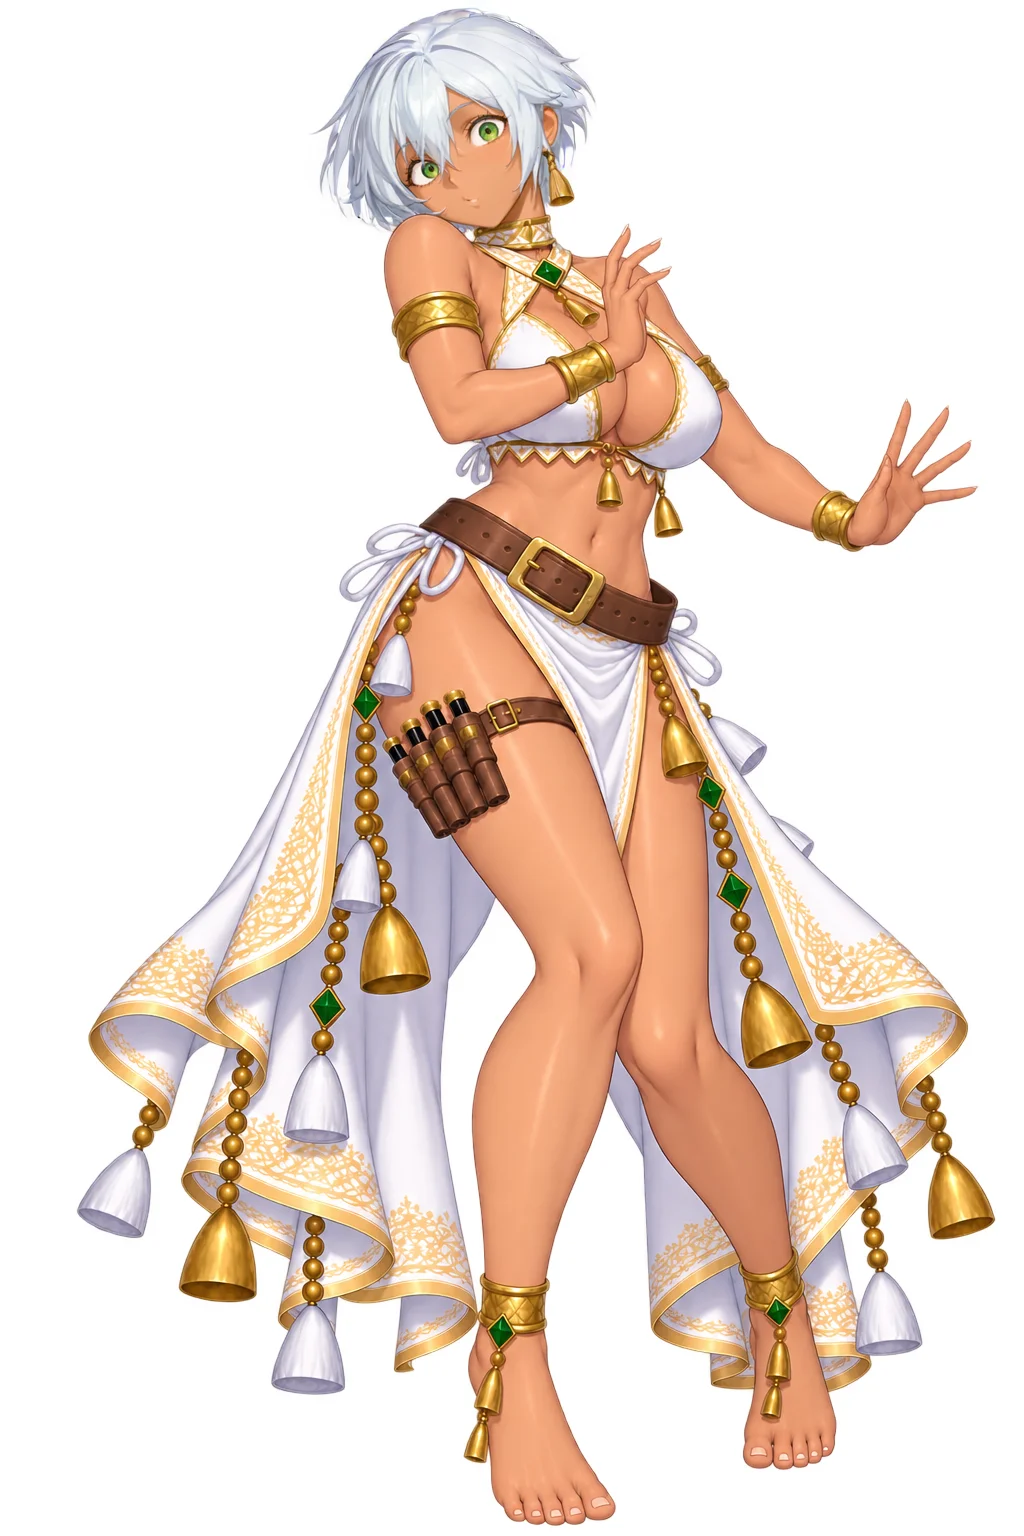
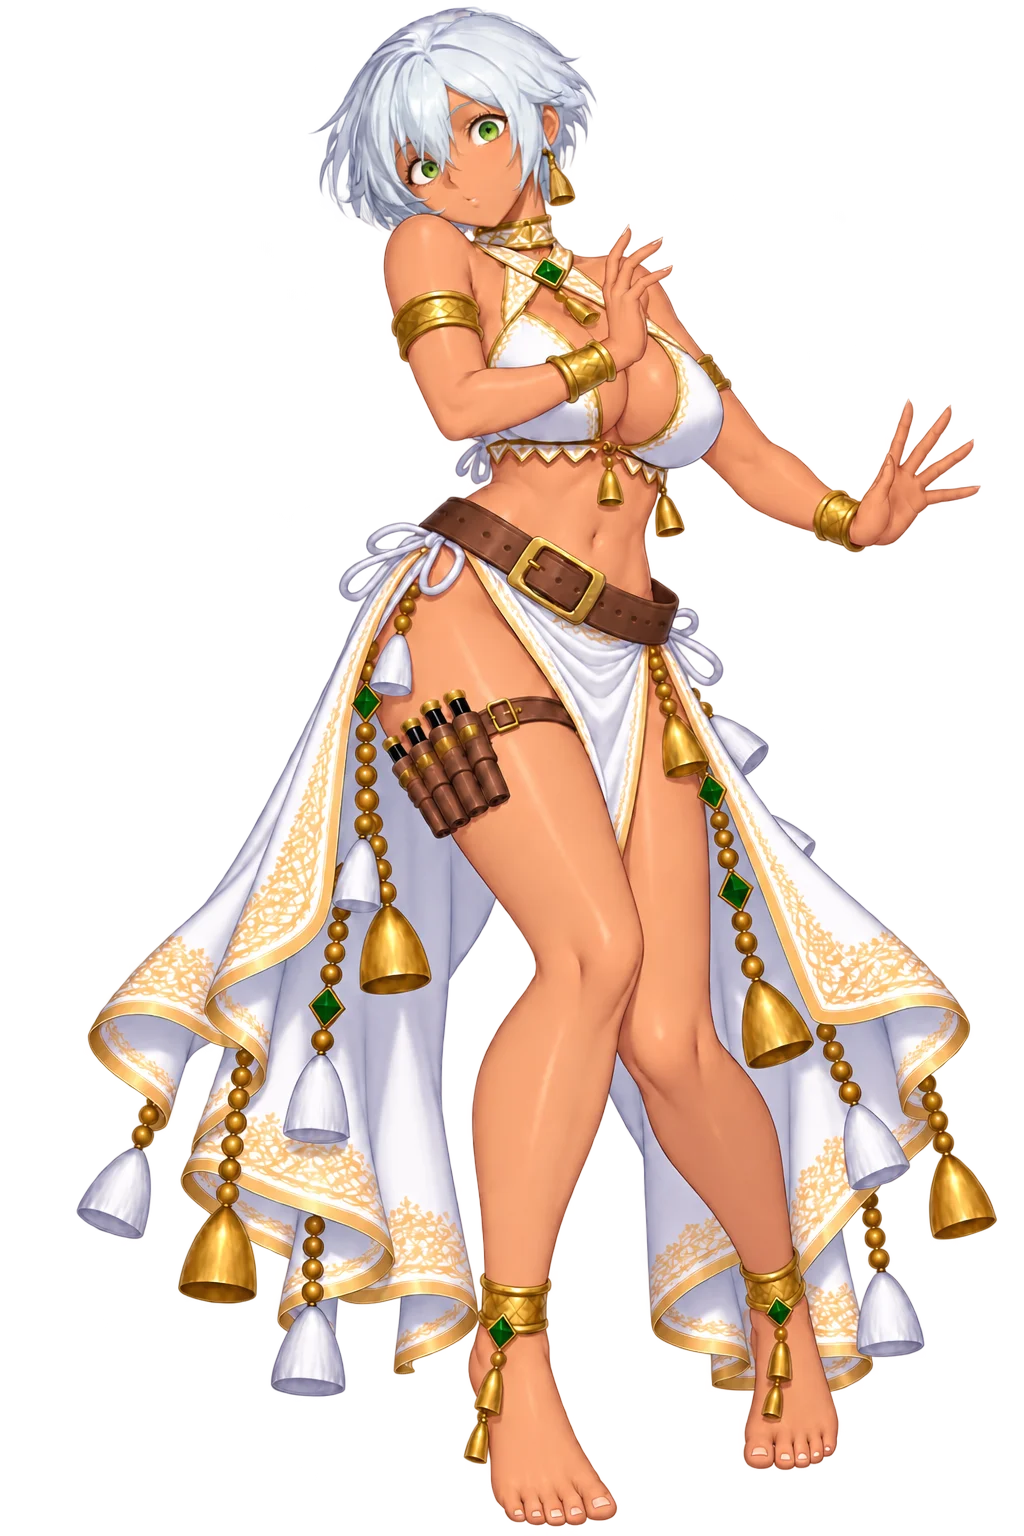
art: Sorana_SI_cringe 換新圖（?v=2 ＋重量取景）ver -1106
Ray 交件是 PNG、舊 webp 已刪 —— 轉 webp（q85／alpha 100）、原 PNG 進
`resources/_originals/SI/`（§5）。
· 同名覆蓋所以掛 `?v=2`：不掛的話瀏覽器照樣拿舊的那一份（-650 的老坑）。
· 取景值**重量過**：top 0→6／bot 1535→1526／fx 0.500→0.454（沿用舊值會歪一截）。
· `script/speakers.js` 與 `flight/index.html` 的 PORTRAIT_EXPR 兩邊都改（§6.10）。

diff --git a/script/speakers.js b/script/speakers.js
@@ -383,7 +383,11 @@ export const ART = {
        ⚠⚠ `excite2` 的人物比基本立繪短 2.4%（雙手舉高、`bot` 只到 1487）——
          Ray 交稿時特別註明「注意不要裁到角色」。不加 `rescale` 正是為了這件事：
          加了它會用這一張自己的身高當分母，人反而被放大、頭頂更容易頂出框。 */
-    cringe:       { src:'resources/SI/Sorana_SI_cringe.webp',        top:0,  bot:1535, fx:0.500 },
+    /* ⚠ ver -1105：Ray 換了新圖（同名覆蓋）→ `?v=2` 是**必要的**（§5：瀏覽器以 URL 為鍵，
+       檔名沒變、內容變了它照樣拿舊的那一份），取景值也**重量過**
+       （top 0→6／bot 1535→1526／fx 0.500→0.454，沿用舊值會歪一截）。
+       ⚠ `flight/index.html` 的 `PORTRAIT_EXPR.sorana.cringe` 是同一組數字，兩邊都改了。 */
+    cringe:       { src:'resources/SI/Sorana_SI_cringe.webp?v=2',   top:6,  bot:1526, fx:0.454 },
     excite:       { src:'resources/SI/Sorana_SI_excite.webp',        top:9,  bot:1521, fx:0.674 },
     excite2:      { src:'resources/SI/Sorana_SI_excite2.webp',       top:4,  bot:1487, fx:0.688 },
     furiouscute:  { src:'resources/SI/Sorana_SI_furiouscute.webp',   top:9,  bot:1527, fx:0.474 },

diff --git a/flight/index.html b/flight/index.html
@@ -2723,7 +2723,7 @@ PORTRAIT_EXPR.sorana = {
   readysmile: { src:'../resources/SI/Sorana_SI_readysmile.webp?v=2', fx:0.578, top:6, bot:1534 },
   smirk:      { src:'../resources/SI/Sorana_SI_smirk.webp',      fx:0.582, top:8, bot:1528 },
   surprised:  { src:'../resources/SI/Sorana_SI_surprised.webp',  fx:0.537, top:9, bot:1522 },
-  cringe:     { src:'../resources/SI/Sorana_SI_cringe.webp',     fx:0.500, top:0, bot:1535 },
+  cringe:     { src:'../resources/SI/Sorana_SI_cringe.webp?v=2', fx:0.454, top:6, bot:1526 },   // ver -1105 換新圖＋重量（?v=2 同名覆蓋）
 };
 /* `renna/relief` → 本尊 id。⚠ **入隊判定（`inParty`）一定要走這一支**：
    直接拿 `renna/relief` 去問 PARTY 查不到，而 `inParty` 對查不到的人一律放行

diff --git a/config.js b/config.js
@@ -65,7 +65,7 @@ export const HITFX = {
  *     以為是快取卡住 —— 版本號不動就等於沒有版本號）。
  *  ⚠ 它同時是**暖開機戳記的鑰匙**（main.js 的 `WARM_BOOT`）：版本一變，
  *    上一版的戳記就失效 → 下一次開機重跑完整讀取。那正是改版後該有的行為。 */
-export const VERSION = 'ver 2026.09.11-1105';
+export const VERSION = 'ver 2026.09.11-1106';
 
 export const GAME_CONFIG = {
 
